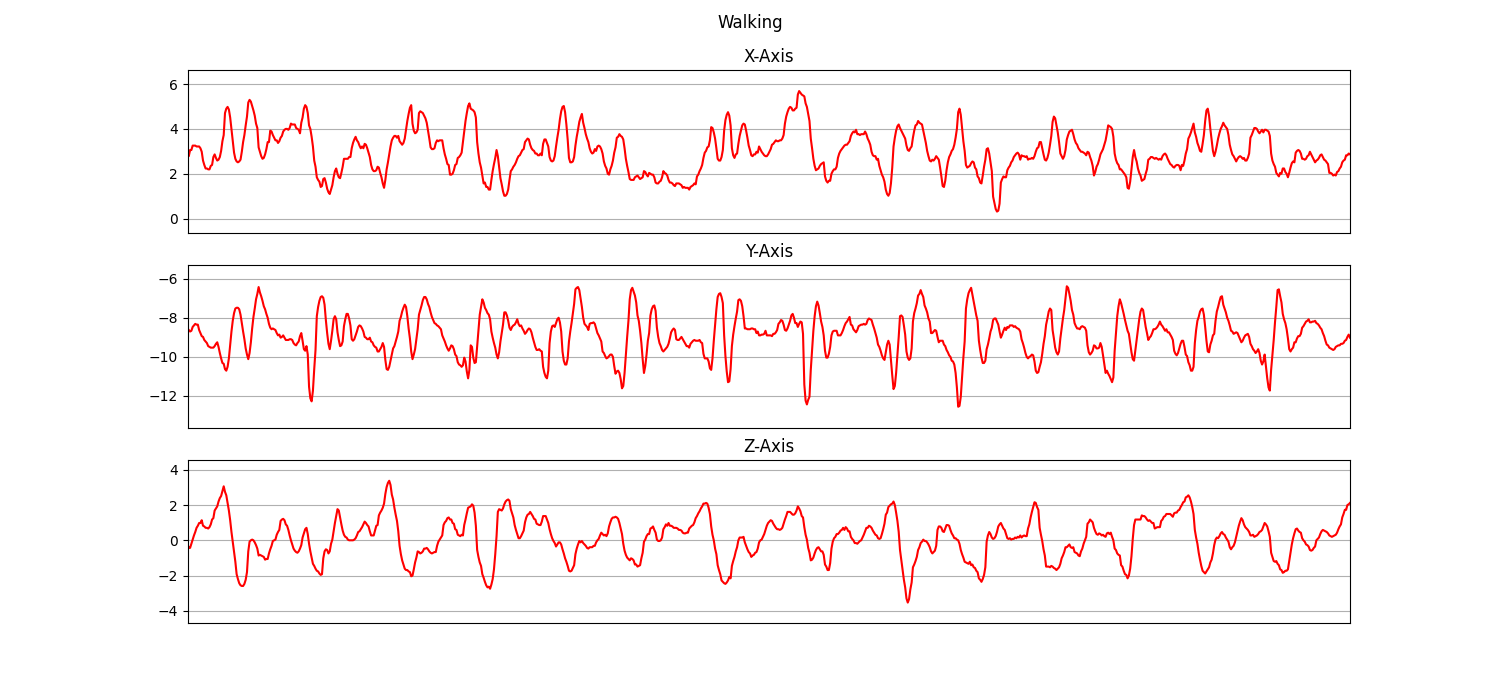
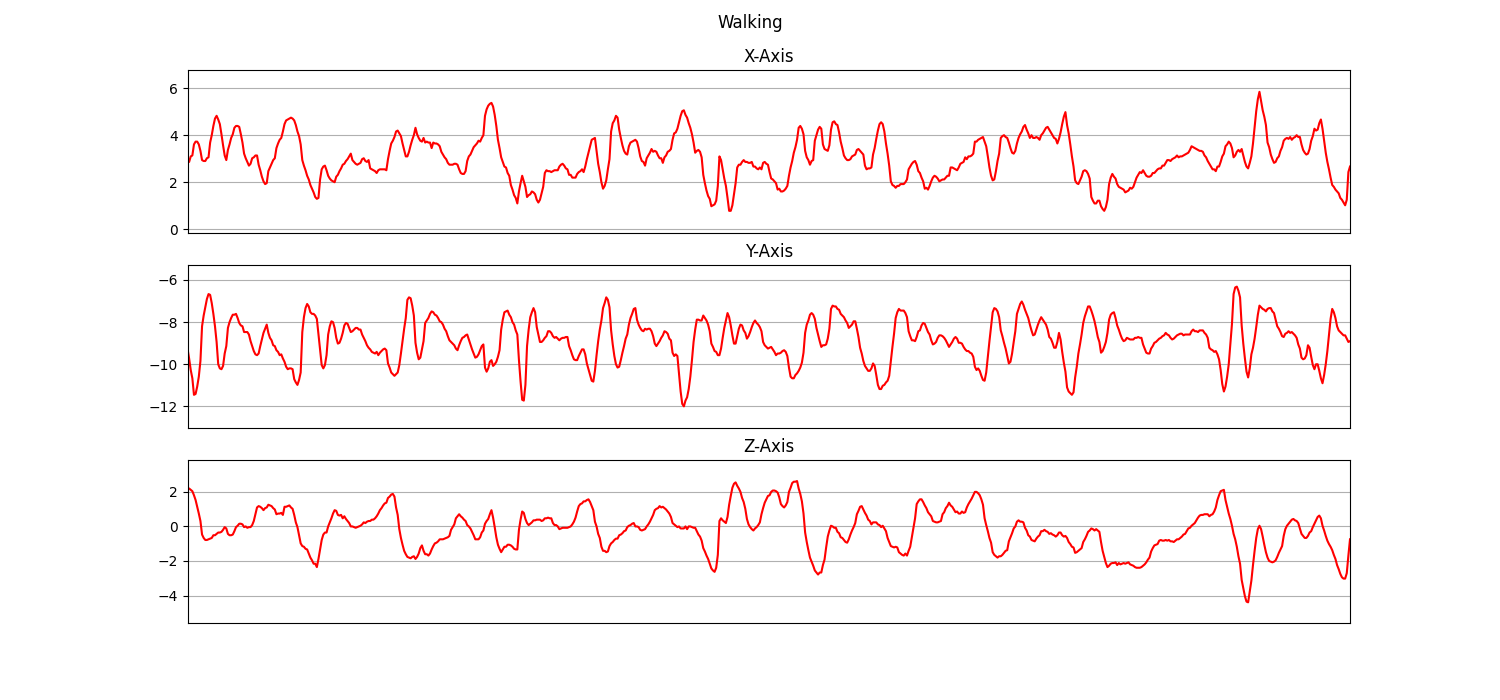
data_for_plot

diff --git a/room_motion_activity/motion_activity_recognition_cnn.py b/room_motion_activity/motion_activity_recognition_cnn.py
@@ -106,11 +106,11 @@ def plot_axis(ax, x, y, title):
     ax.grid(True)
 
 for activity in activities:
-    data_for_plot = data[(data['activity'] == activity)][:Fs*10]
+    data_for_plot = data[(data['activity'] == activity)][Fs*10: Fs*18]
     print('data_for_plot', data_for_plot)
     plot_activity(activity, data_for_plot)
 
-
+exit(0)
 
 df = data.drop(['user', 'time'], axis = 1).copy()
 print('df.head:', df.head())

diff --git a/room_motion_activity/ascc_room_motion_activity_test.py b/room_motion_activity/ascc_room_motion_activity_test.py
@@ -1449,7 +1449,8 @@ def test_dnn():
     # get_activity_by_motion_dnn('20220804153242', 'Squating') # 3 g
 
     # get_activity_by_motion_dnn('20220804151607', 'Sit_Stand_Walk_in_kitchen')
-    get_activity_by_motion_dnn('2009-12-11-10-06-38', 'sitting?')
+    #get_activity_by_motion_dnn('2009-12-11-10-06-38', 'sitting?')
+    get_activity_by_motion_dnn('stand', 'sitting?')
 
     
 
